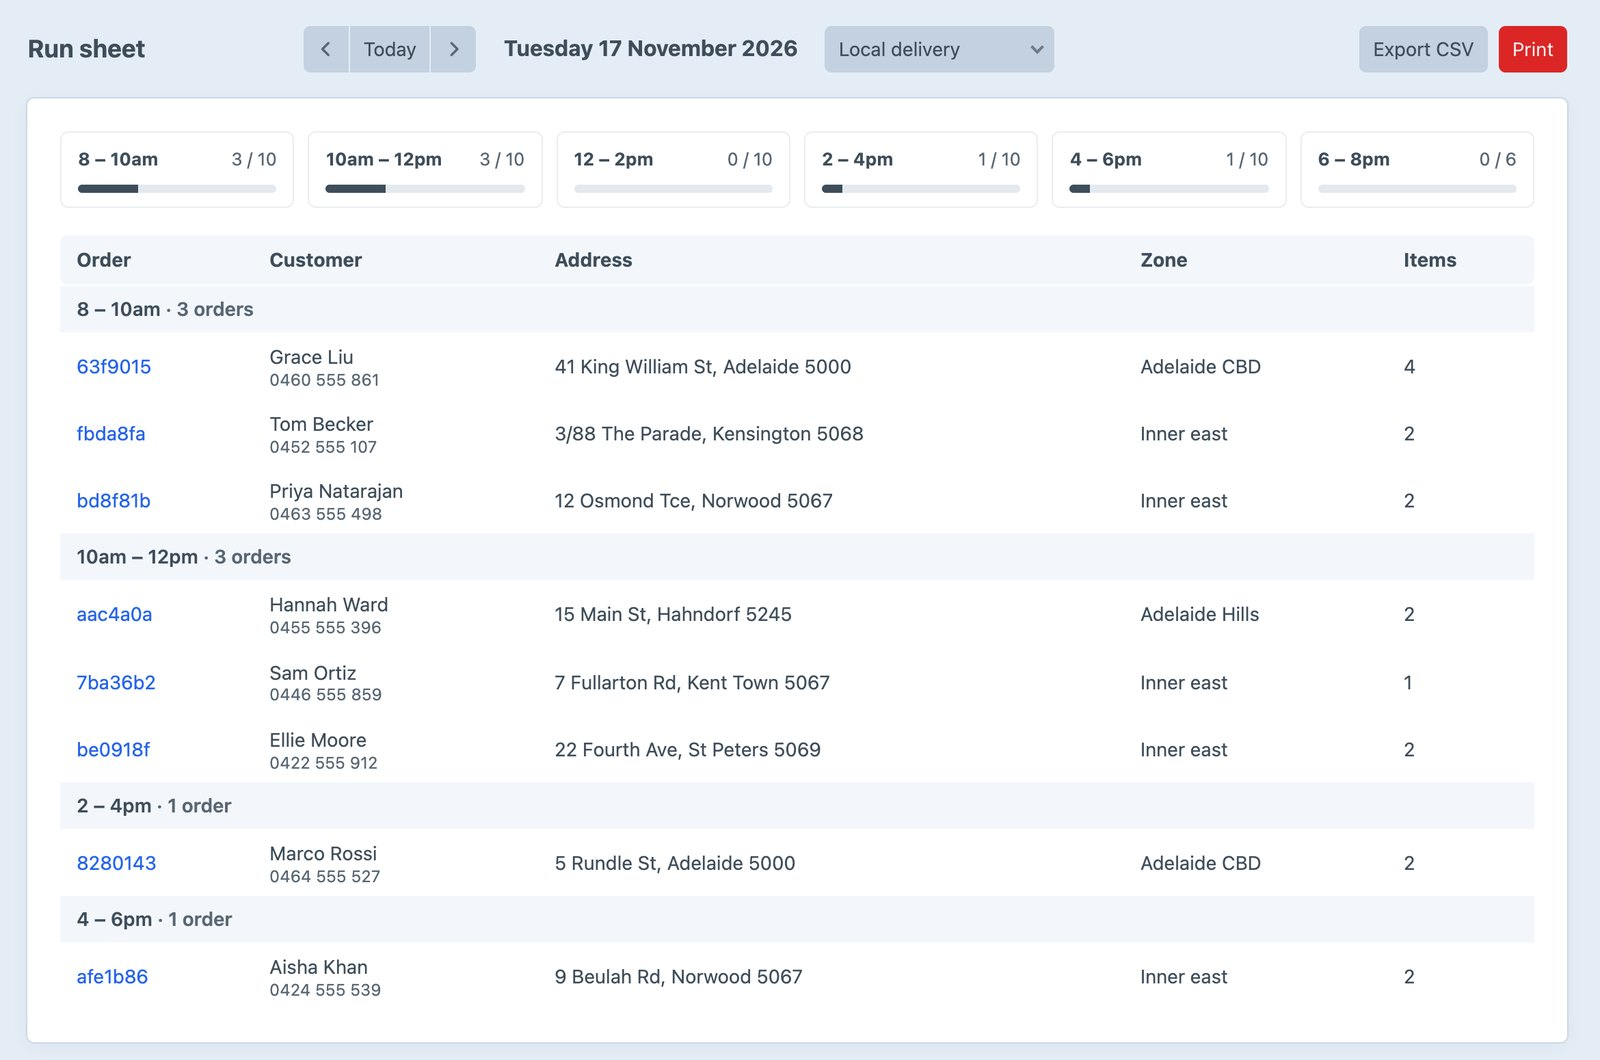
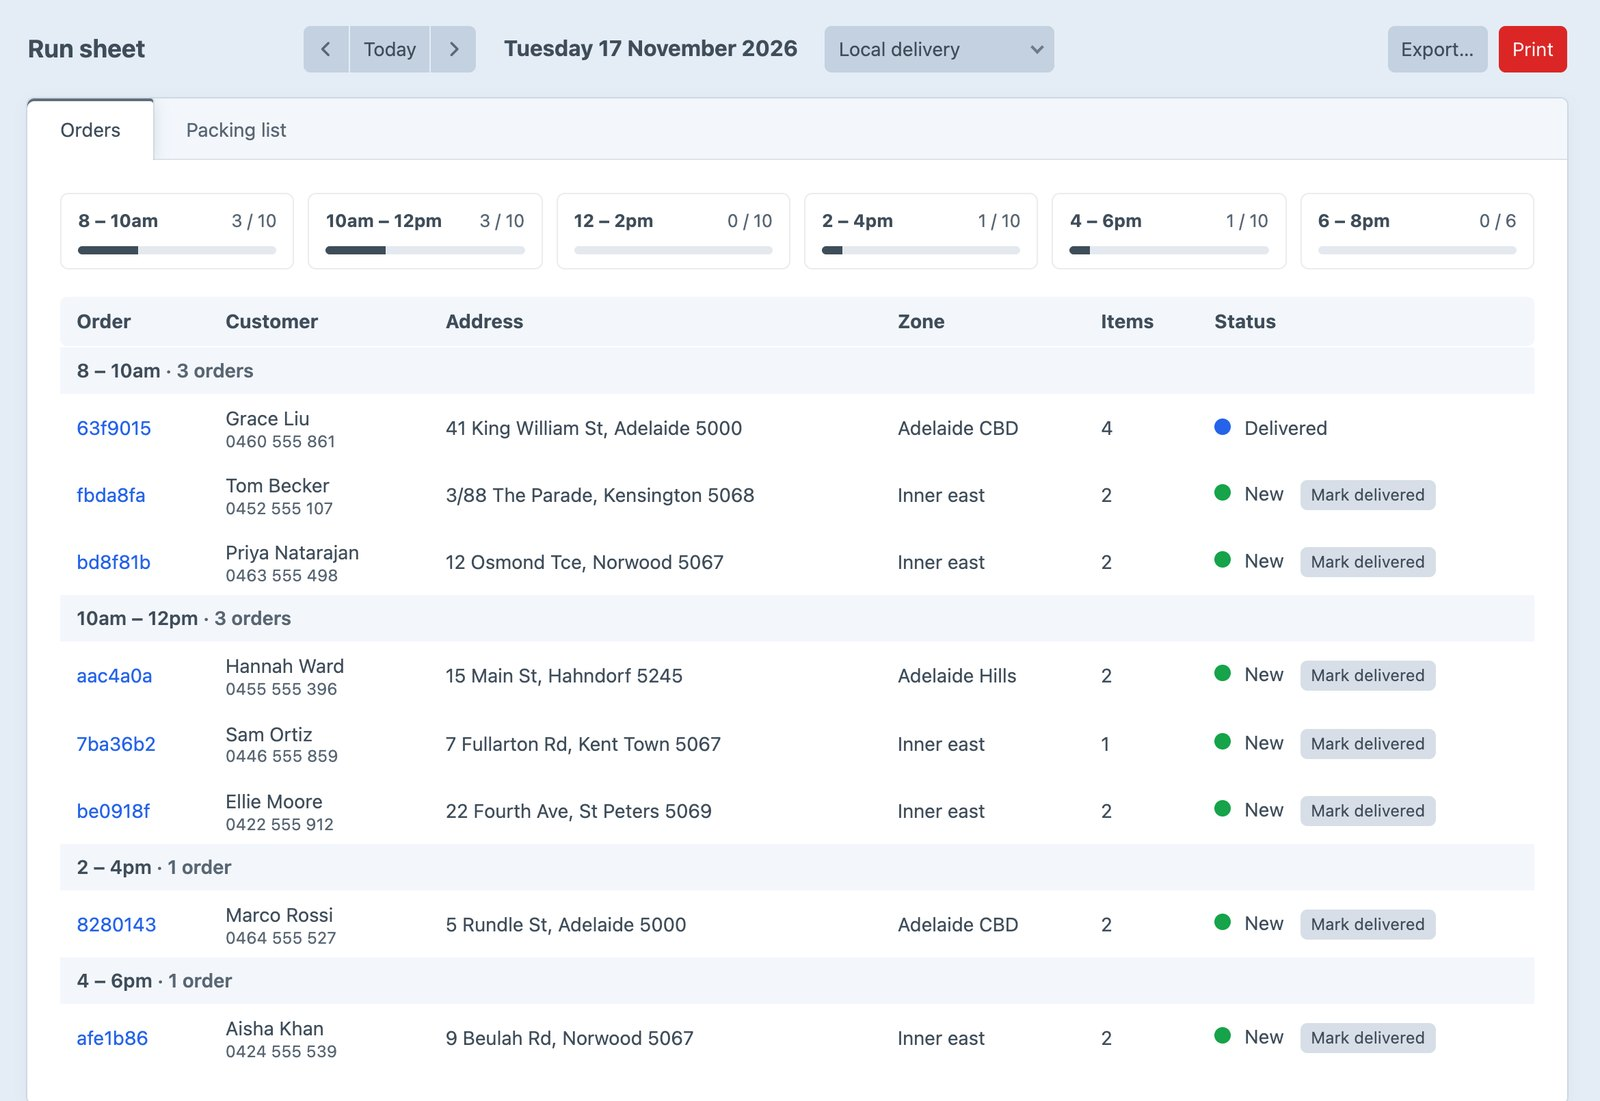
Email customers when staff change their slot; mark orders delivered
- The slot change page has an Email the customer box, ticked for
  completed orders; the email has the new and old times, the address
  and an add-to-calendar link. slotChangedTemplate and
  slotChangedSubject customise it
- Run sheet: a Status column and a Mark delivered button that sets the
  order status from deliveredStatus (default delivered)
- Changelog for 1.0.0, support and docs links in composer.json
- Docs: both features, config options, new screenshots

diff --git a/docs/src/.vitepress/theme/DsHome.vue b/docs/src/.vitepress/theme/DsHome.vue
@@ -272,7 +272,7 @@ sameDay: <label class="dh-edit"><span class="sr-only">Same-day slots</span><sele
       <h2 id="dh-features-title" data-reveal>Everything after the checkout, too</h2>
       <div class="dh-cells">
         <article class="dh-cell" data-reveal>
-          <div class="dh-cell__text"><h3>A run sheet for drivers</h3><p>Each day’s orders by slot, zone and suburb, with phone numbers. Print a page per slot.</p></div>
+          <div class="dh-cell__text"><h3>A run sheet for drivers</h3><p>Each day’s orders by slot, zone and suburb, with phone numbers. Print a page per slot, and mark orders delivered.</p></div>
           <img :src="withBase('/images/run-sheet.jpg')" width="1600" height="1060" alt="The run sheet: six slots with how full each is, and eight orders grouped by time" loading="lazy">
         </article>
         <article class="dh-cell dh-cell--flip" data-reveal>
@@ -280,7 +280,7 @@ sameDay: <label class="dh-edit"><span class="sr-only">Same-day slots</span><sele
           <img :src="withBase('/images/packing-list.jpg')" width="1600" height="597" alt="The packing list: four items with their quantity in each slot and a total" loading="lazy">
         </article>
         <article class="dh-cell" data-reveal>
-          <div class="dh-cell__text"><h3>Move an order</h3><p>A customer rings to change their time. Pick the new one from the order page, even if it’s full.</p></div>
+          <div class="dh-cell__text"><h3>Move an order</h3><p>A customer rings to change their time. Pick the new one from the order page, even if it’s full, and they’re emailed it.</p></div>
           <img :src="withBase('/images/change-slot.jpg')" width="1600" height="748" alt="Changing an order’s delivery time: each window with how many orders it has and a Move here button" loading="lazy">
         </article>
         <article class="dh-cell dh-cell--flip" data-reveal>

diff --git a/src/controllers/RunSheetController.php b/src/controllers/RunSheetController.php
@@ -10,6 +10,8 @@
 namespace suprim\deliveryslots\controllers;
 
 use Craft;
+use craft\commerce\elements\Order;
+use craft\commerce\Plugin as Commerce;
 use craft\helpers\DateTimeHelper;
 use craft\web\Controller;
 use DateInterval;
@@ -82,6 +84,32 @@ class RunSheetController extends Controller
     }
 
     /**
+     * Sets an order to the delivered order status, from the run sheet’s **Delivered** button.
+     */
+    public function actionMarkDelivered(): ?Response
+    {
+        $this->requirePostRequest();
+        $this->requirePermission('commerce-editOrders');
+        $order = Order::find()->id((int)$this->request->getRequiredBodyParam('orderId'))->status(null)->one();
+        if (!$order || !$order->isCompleted) {
+            throw new BadRequestHttpException('Order not found');
+        }
+        $handle = Plugin::getInstance()->getSettings()->deliveredStatus;
+        $status = Commerce::getInstance()->getOrderStatuses()->getOrderStatusByHandle($handle, $order->storeId);
+        if (!$status) {
+            return $this->asFailure(Craft::t('delivery-slots', 'There’s no order status with the handle {handle}.', ['handle' => $handle]));
+        }
+
+        $order->orderStatusId = $status->id;
+        $order->message = Craft::t('delivery-slots', 'Marked as delivered from the run sheet.');
+        if (!Craft::$app->getElements()->saveElement($order)) {
+            return $this->asFailure(Craft::t('delivery-slots', 'Couldn’t update order {reference}.', ['reference' => $order->reference ?: $order->getShortNumber()]));
+        }
+
+        return $this->asSuccess(Craft::t('delivery-slots', 'Order {reference} is marked as delivered.', ['reference' => $order->reference ?: $order->getShortNumber()]));
+    }
+
+    /**
      * @return array<string, mixed>
      */
     private function sheet(): array
@@ -105,7 +133,23 @@ class RunSheetController extends Controller
             'summary' => $methodId ? $runSheets->getSummary($ymd, $methodId) : [],
             'total' => count($rows),
             'showNote' => (bool)Plugin::getInstance()->getSettings()->noteField,
+            'canMarkDelivered' => $this->deliveredStatusExists() && Craft::$app->getUser()->checkPermission('commerce-editOrders'),
         ];
+    }
+
+    /**
+     * Whether any store has the order status the Delivered button sets.
+     */
+    private function deliveredStatusExists(): bool
+    {
+        $handle = Plugin::getInstance()->getSettings()->deliveredStatus;
+        foreach (Commerce::getInstance()->getStores()->getAllStores() as $store) {
+            if (Commerce::getInstance()->getOrderStatuses()->getOrderStatusByHandle($handle, $store->id)) {
+                return true;
+            }
+        }
+
+        return false;
     }
 
     /**

diff --git a/src/services/Notifications.php b/src/services/Notifications.php
@@ -1,0 +1,66 @@
+<?php
+/**
+ * Delivery Slots plugin for Craft CMS
+ *
+ * @link      https://suprim.com.au
+ * @author suprim <support@suprim.com.au> <https://suprim.com.au>
+ * @copyright Copyright (c) 2026 suprim
+ */
+
+namespace suprim\deliveryslots\services;
+
+use Craft;
+use craft\base\Component;
+use craft\commerce\elements\Order;
+use craft\web\View;
+use suprim\deliveryslots\models\DeliverySlot;
+use suprim\deliveryslots\Plugin;
+use Throwable;
+
+/**
+ * Emails customers about their slot.
+ */
+class Notifications extends Component
+{
+    /**
+     * Emails the customer their order’s new slot after staff change it.
+     *
+     * @return bool Whether the email was sent.
+     */
+    public function sendSlotChanged(Order $order, DeliverySlot $slot, ?DeliverySlot $previousSlot = null): bool
+    {
+        $email = $order->getEmail();
+        if (!$email) {
+            return false;
+        }
+
+        $settings = Plugin::getInstance()->getSettings();
+        $params = [
+            'site' => Craft::$app->getSites()->getCurrentSite()->getName(),
+            'reference' => $order->reference ?: $order->getShortNumber(),
+            'slot' => $slot->getLabel(),
+        ];
+        $subject = $settings->slotChangedSubject
+            ? strtr($settings->slotChangedSubject, array_combine(array_map(fn($k) => '{' . $k . '}', array_keys($params)), array_values($params)))
+            : Craft::t('delivery-slots', '{site}: your new delivery time for order {reference}', $params);
+        $variables = ['order' => $order, 'slot' => $slot, 'previousSlot' => $previousSlot, 'subject' => $subject];
+        $template = $settings->slotChangedTemplate;
+
+        try {
+            $view = Craft::$app->getView();
+            $html = $template
+                ? $view->renderTemplate($template, $variables, View::TEMPLATE_MODE_SITE)
+                : $view->renderTemplate('delivery-slots/_emails/slot-changed', $variables, View::TEMPLATE_MODE_CP);
+
+            return Craft::$app->getMailer()->compose()
+                ->setTo($email)
+                ->setSubject($subject)
+                ->setHtmlBody($html)
+                ->send();
+        } catch (Throwable $e) {
+            Craft::error('Couldn’t email the new delivery time for order ' . $order->id . ': ' . $e->getMessage(), 'delivery-slots');
+
+            return false;
+        }
+    }
+}

diff --git a/src/controllers/OrdersController.php b/src/controllers/OrdersController.php
@@ -95,12 +95,22 @@ class OrdersController extends Controller
             return $this->asSuccess(Craft::t('delivery-slots', 'Delivery time removed.'));
         }
 
+        $previous = $slots->getBooking($order);
         $error = $slots->assign($order, (string)$this->request->getRequiredBodyParam('date'), (string)$this->request->getRequiredBodyParam('start'));
         if ($error !== null) {
             return $this->asFailure($error);
         }
+        $slot = $slots->getBooking($order);
+        $message = Craft::t('delivery-slots', 'Delivery time changed to {slot}.', ['slot' => (string)$slot]);
 
-        return $this->asSuccess(Craft::t('delivery-slots', 'Delivery time changed to {slot}.', ['slot' => (string)$slots->getBooking($order)]));
+        // Completed orders only: a customer still checking out sees the change in their cart.
+        if ($slot && $order->isCompleted && $this->request->getBodyParam('notify')) {
+            $message .= ' ' . (Plugin::getInstance()->notifications->sendSlotChanged($order, $slot, $previous)
+                ? Craft::t('delivery-slots', 'The customer was emailed.')
+                : Craft::t('delivery-slots', 'The customer couldn’t be emailed.'));
+        }
+
+        return $this->asSuccess($message);
     }
 
     private function order(int $id): Order

diff --git a/src/models/Settings.php b/src/models/Settings.php
@@ -24,4 +24,22 @@ class Settings extends Model
 
     /** An order field to show as the delivery note on the run sheet, such as `deliveryInstructions`. */
     public ?string $noteField = null;
+
+    /**
+     * The handle of the Commerce order status that the run sheet’s **Delivered** button sets. The button shows
+     * when the store has a status with this handle.
+     */
+    public string $deliveredStatus = 'delivered';
+
+    /**
+     * A site template for the email customers get when staff change their slot, such as `_emails/slot-changed`.
+     * It gets `order`, `slot` and `previousSlot`. Leave it null for the built-in email.
+     */
+    public ?string $slotChangedTemplate = null;
+
+    /**
+     * The subject of that email. `{site}`, `{reference}` and `{slot}` are replaced with the site name, the order
+     * reference and the new time. Leave it null for “{site}: your new delivery time for order {reference}”.
+     */
+    public ?string $slotChangedSubject = null;
 }

diff --git a/src/Plugin.php b/src/Plugin.php
@@ -42,6 +42,7 @@ use suprim\deliveryslots\adjusters\SlotFee;
 use suprim\deliveryslots\behaviors\OrderBehavior;
 use suprim\deliveryslots\conditions\DeliveryDateConditionRule;
 use suprim\deliveryslots\models\Settings;
+use suprim\deliveryslots\services\Notifications;
 use suprim\deliveryslots\services\RunSheets;
 use suprim\deliveryslots\services\Schedules;
 use suprim\deliveryslots\services\Slots;
@@ -58,6 +59,7 @@ use yii\base\ModelEvent as ValidateEvent;
  * @property-read Slots $slots
  * @property-read Zones $zones
  * @property-read RunSheets $runSheets
+ * @property-read Notifications $notifications
  * @method Settings getSettings()
  */
 class Plugin extends BasePlugin
@@ -82,6 +84,7 @@ class Plugin extends BasePlugin
                 'slots' => Slots::class,
                 'zones' => Zones::class,
                 'runSheets' => RunSheets::class,
+                'notifications' => Notifications::class,
             ],
         ];
     }

diff --git a/src/services/RunSheets.php b/src/services/RunSheets.php
@@ -261,6 +261,8 @@ class RunSheets extends Component
             'total' => $order->getTotalPrice(),
             'method' => isset($methods[$booking->shippingMethodId]) ? $methods[$booking->shippingMethodId]->getName() : '',
             'note' => $note,
+            'status' => $order->getOrderStatus(),
+            'delivered' => $order->getOrderStatus()?->handle === Plugin::getInstance()->getSettings()->deliveredStatus,
         ];
     }
 

diff --git a/docs/src/guides/orders.md b/docs/src/guides/orders.md
@@ -12,14 +12,30 @@ While a customer is still checking out, it shows as **Delivery time (held)**.
 
 When a customer calls to change their time, click **Change** under the delivery time. Pick a day with the arrows, then **Move here** next to the new time.
 
-![Changing order bd8f81b’s delivery time: Wednesday 18 November’s six windows with how many orders each has, and a Move here button on each](/images/change-slot.jpg)
+![Changing order fbda8fa’s delivery time: Wednesday 18 November’s six windows with how many orders each has, a Move here button on each, and Email the customer their new time ticked](/images/change-slot.jpg)
 
 - Staff can choose any window that runs that day, even when it’s full or closed for customers.
 - **Remove the delivery time** takes the order out of its slot.
 - Orders without a slot, such as phone orders, show **Choose a time** instead.
-- The customer isn’t emailed. Let them know, or resend the order’s email from Commerce.
+- **Email the customer their new time** is ticked for completed orders. They get an email with the new time, the old one, the address and an *Add to calendar* link. Untick it to change the time quietly.
 
 Staff need Commerce’s **Edit orders** permission.
+
+### The email
+
+The built-in email is plain and works in every mail app. To send your own, make a site template and set `slotChangedTemplate` in the [config file](/getting-started/configuration). It gets `order`, `slot` (the new time) and `previousSlot` (the old one, or `null`):
+
+```twig
+{# templates/_emails/slot-changed.twig #}
+<p>Hi {{ order.shippingAddress.fullName ?? 'there' }},</p>
+<p>Your order {{ order.reference }} now arrives {{ slot.label }}.</p>
+{% if previousSlot %}<p>It was {{ previousSlot.label }}.</p>{% endif %}
+<p><a href="{{ slot.calendarUrl }}">Add to calendar</a></p>
+```
+
+Set its subject with `slotChangedSubject`, such as `'Green Grocer · order {reference} now arrives {slot}'`.
+
+The email is sent with Craft’s email settings (**Settings → Email**), from the system email address and sender name, so your shop’s name and address are on it.
 
 ## In templates
 

diff --git a/docs/src/guides/run-sheet.md b/docs/src/guides/run-sheet.md
@@ -2,7 +2,7 @@
 
 **Delivery Slots → Run sheet** shows a day’s booked orders, grouped by slot.
 
-![The run sheet for Tuesday 17 November: six slot cards showing how full each is, and eight orders grouped by time with customer, phone, address, zone and items](/images/run-sheet.jpg)
+![The run sheet for Tuesday 17 November: six slot cards showing how full each is, and eight orders grouped by time with customer, phone, address, zone, items and status; one is Delivered, the others have a Mark delivered button](/images/run-sheet.jpg)
 
 - **The date** starts at today. Use the arrows to move a day, or **Today** to come back.
 - **The shipping method** menu shows one method, or all of them.
@@ -29,6 +29,17 @@ To show phone numbers, add a Phone field (handle `phone`) to addresses under **S
 **Print** opens a plain page for the day and prints it, starting each slot on a new page so each driver gets their own.
 
 ![The printed run sheet: Run sheet, Tuesday 17 November 2026, Local delivery, 8 orders, with the orders grouped by slot](/images/print.jpg)
+
+## Marking orders delivered
+
+Each order has a **Status** column with its Commerce order status. **Mark delivered** sets the order to your *Delivered* status, so the team can tick orders off as drivers report back, and the order’s status history shows who did it.
+
+The button shows when:
+
+- your store has an order status with the handle `delivered` (create it in **Commerce → Store Management → Order Statuses**), or the handle you set with `deliveredStatus` in the [config file](/getting-started/configuration);
+- the user can edit orders.
+
+Give the status an email in Commerce, such as “Your order has been delivered”, and customers are told automatically.
 
 ## Packing list
 

diff --git a/README.md b/README.md
@@ -14,7 +14,8 @@ Built for grocers, florists, bakeries, butchers, meal kits, liquor stores and an
 - **Run sheet.** Each day’s orders by slot, zone and suburb, with how full each slot is. Print a page per slot for drivers.
 - **Packing list.** How many of each item to pack for the day, by slot.
 - **Exports.** Orders or the packing list as CSV for any date range, from the control panel or `php craft delivery-slots/export`.
-- **Change a slot.** Move an order to another time from the order page, even when it’s full. Close or change one slot on one date.
+- **Change a slot.** Move an order to another time from the order page, even when it’s full, and email the customer their new time. Close or change one slot on one date.
+- **Mark delivered.** Set orders to your Delivered status from the run sheet.
 - **Dashboard and Orders.** A widget showing how full today and tomorrow are, a Delivery time column and a Delivery date filter on Commerce → Orders.
 - **Add to calendar.** `order.deliverySlot.calendarUrl` downloads the slot as a calendar event.
 - **On the order.** The slot shows on the order in the control panel, and as `order.deliverySlot` in templates and emails.
@@ -109,6 +110,11 @@ return [
     'fewLeft' => 2,
     // An order field to show as the delivery note on the run sheet.
     'noteField' => 'deliveryInstructions',
+    // The order status the run sheet's Mark delivered button sets.
+    'deliveredStatus' => 'delivered',
+    // A site template and subject for the email sent when staff change a slot (null: the built-in ones).
+    'slotChangedTemplate' => null,
+    'slotChangedSubject' => null,
 ];
 ```
 

diff --git a/docs/src/getting-started/configuration.md b/docs/src/getting-started/configuration.md
@@ -17,6 +17,13 @@ return [
     // An order field to show on the run sheet as the delivery note, such as a
     // “Delivery instructions” field in your order field layout.
     'noteField' => 'deliveryInstructions',
+
+    // The order status the run sheet’s Mark delivered button sets.
+    'deliveredStatus' => 'delivered',
+
+    // Your own template and subject for the email customers get when staff change their slot.
+    'slotChangedTemplate' => '_emails/slot-changed',
+    'slotChangedSubject' => '{site}: your order {reference} now arrives {slot}',
 ];
 ```
 
@@ -25,6 +32,9 @@ return [
 | `holdMinutes` | `15` | How long a slot is [held](/guides/holds) while the customer checks out. Raise it for slow payment gateways, or set it to `0` so only paid orders take places |
 | `fewLeft` | `2` | When `slot.isLow` is true, for “2 left” notes |
 | `noteField` | `null` | The handle of an order field shown as a **Note** column on the [run sheet](/guides/run-sheet) and in the CSV |
+| `deliveredStatus` | `delivered` | The handle of the order status that **Mark delivered** sets ([run sheet](/guides/run-sheet#marking-orders-delivered)) |
+| `slotChangedTemplate` | `null` | A site template for the email sent when staff change a slot. `null` uses the built-in email ([Orders and Emails](/guides/orders#the-email)) |
+| `slotChangedSubject` | `null` | That email’s subject. `{site}`, `{reference}` and `{slot}` become the site name, order reference and new time. `null`: “{site}: your new delivery time for order {reference}” |
 
 Like any Craft config file, it can return different values per environment:
 

diff --git a/CHANGELOG.md b/CHANGELOG.md
@@ -2,4 +2,18 @@
 
 ## 1.0.0 - Unreleased
 
-- Initial release.
+### Added
+- Delivery and pickup time slots for Craft Commerce shipping methods, with time windows per weekday and a limit on orders per slot.
+- A slot picker for checkouts: `cart.deliverySlotDays`, posted with the cart form as `deliverySlot`.
+- Slots are held for 15 minutes while customers pay, and checked again before payment.
+- Next-day cut-off, same-day slots, a minimum notice and how many days ahead to show.
+- Closed days with a label, and changes to one window on one date.
+- Delivery zones drawn with Geo Maps, each with its own days, limit and slot fee. Addresses outside every zone aren’t offered the shipping method.
+- A run sheet of each day’s orders by slot, zone and suburb, with print and CSV export.
+- A packing list of each item’s quantity by slot.
+- CSV exports of orders or the packing list for any date range, also as `php craft delivery-slots/export`.
+- Staff can move an order to another slot from the order page, and email the customer their new time.
+- **Mark delivered** on the run sheet sets the order’s Delivered status.
+- A dashboard widget, a Delivery time column and a Delivery date filter on Commerce’s orders.
+- `order.deliverySlot`, with `calendarUrl` for an add-to-calendar link.
+- JSON actions for headless checkouts, and the slot in Commerce’s cart JSON.
